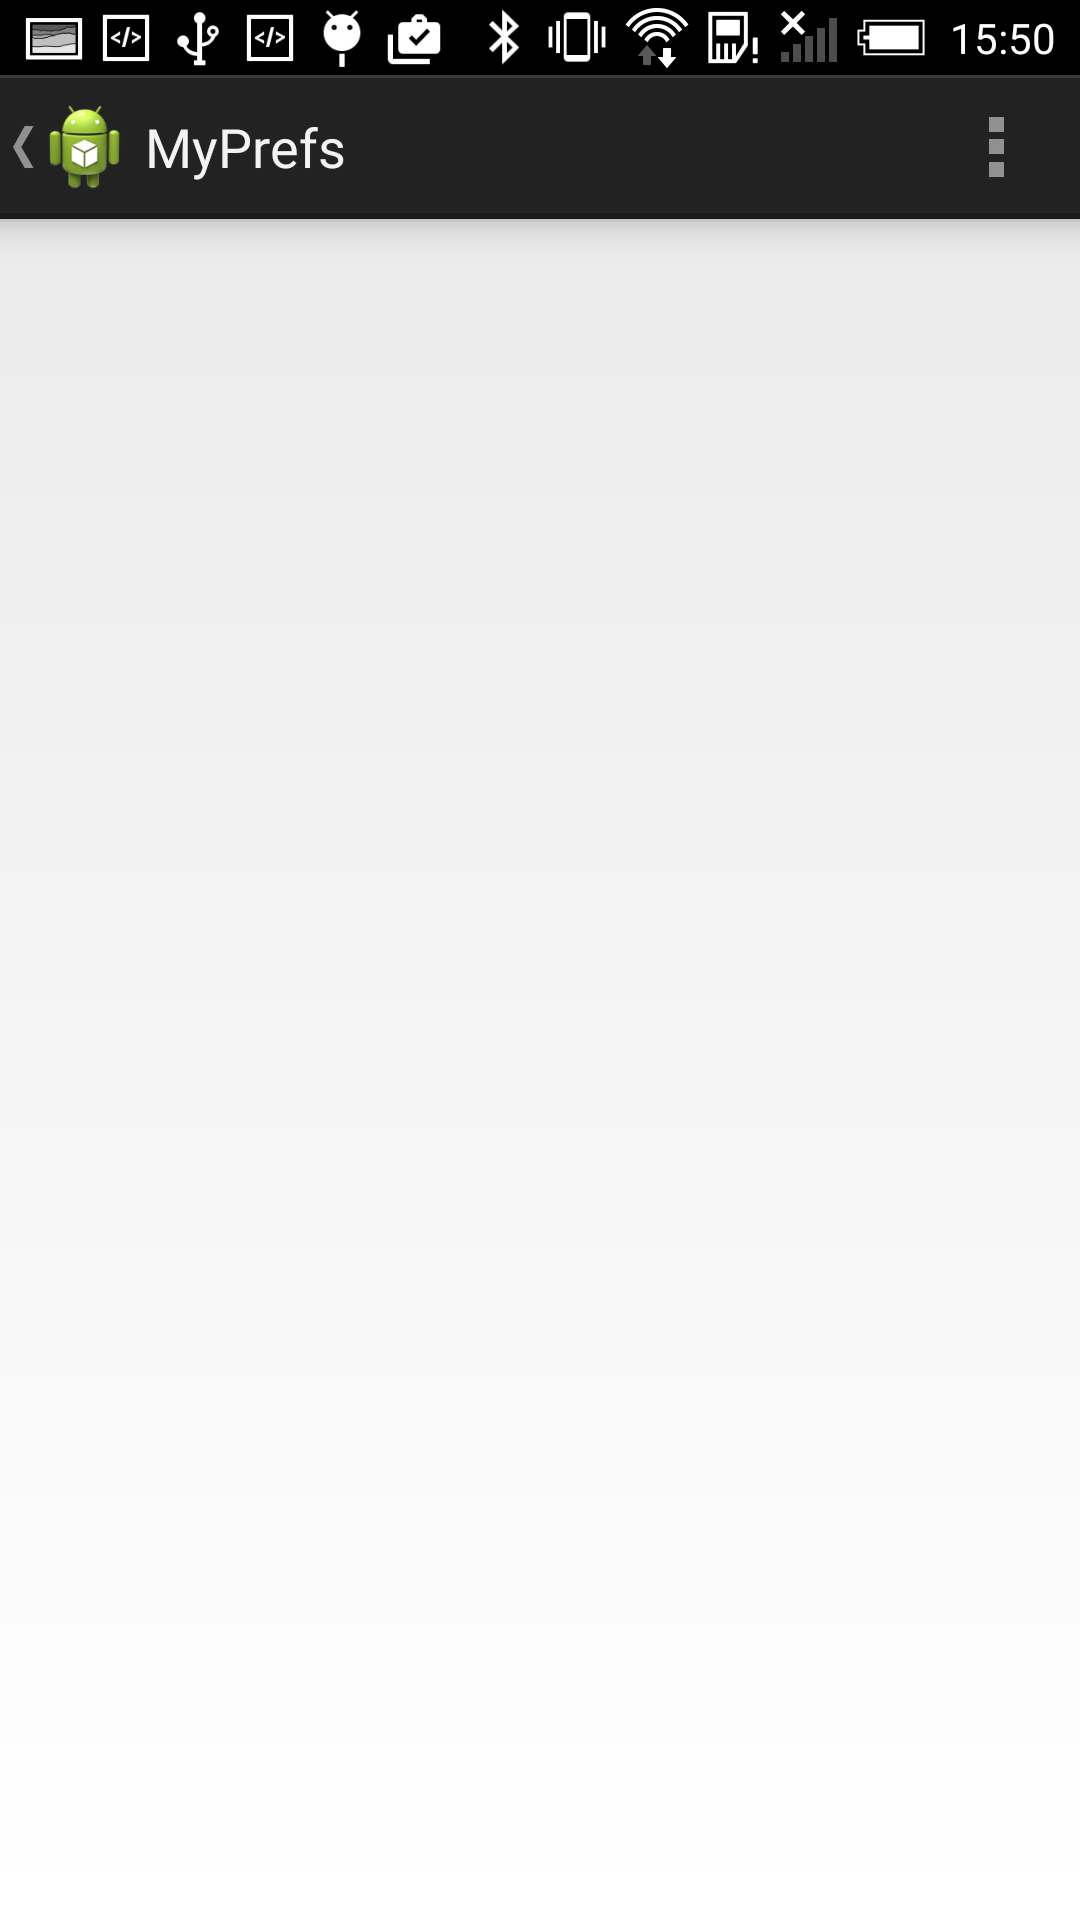
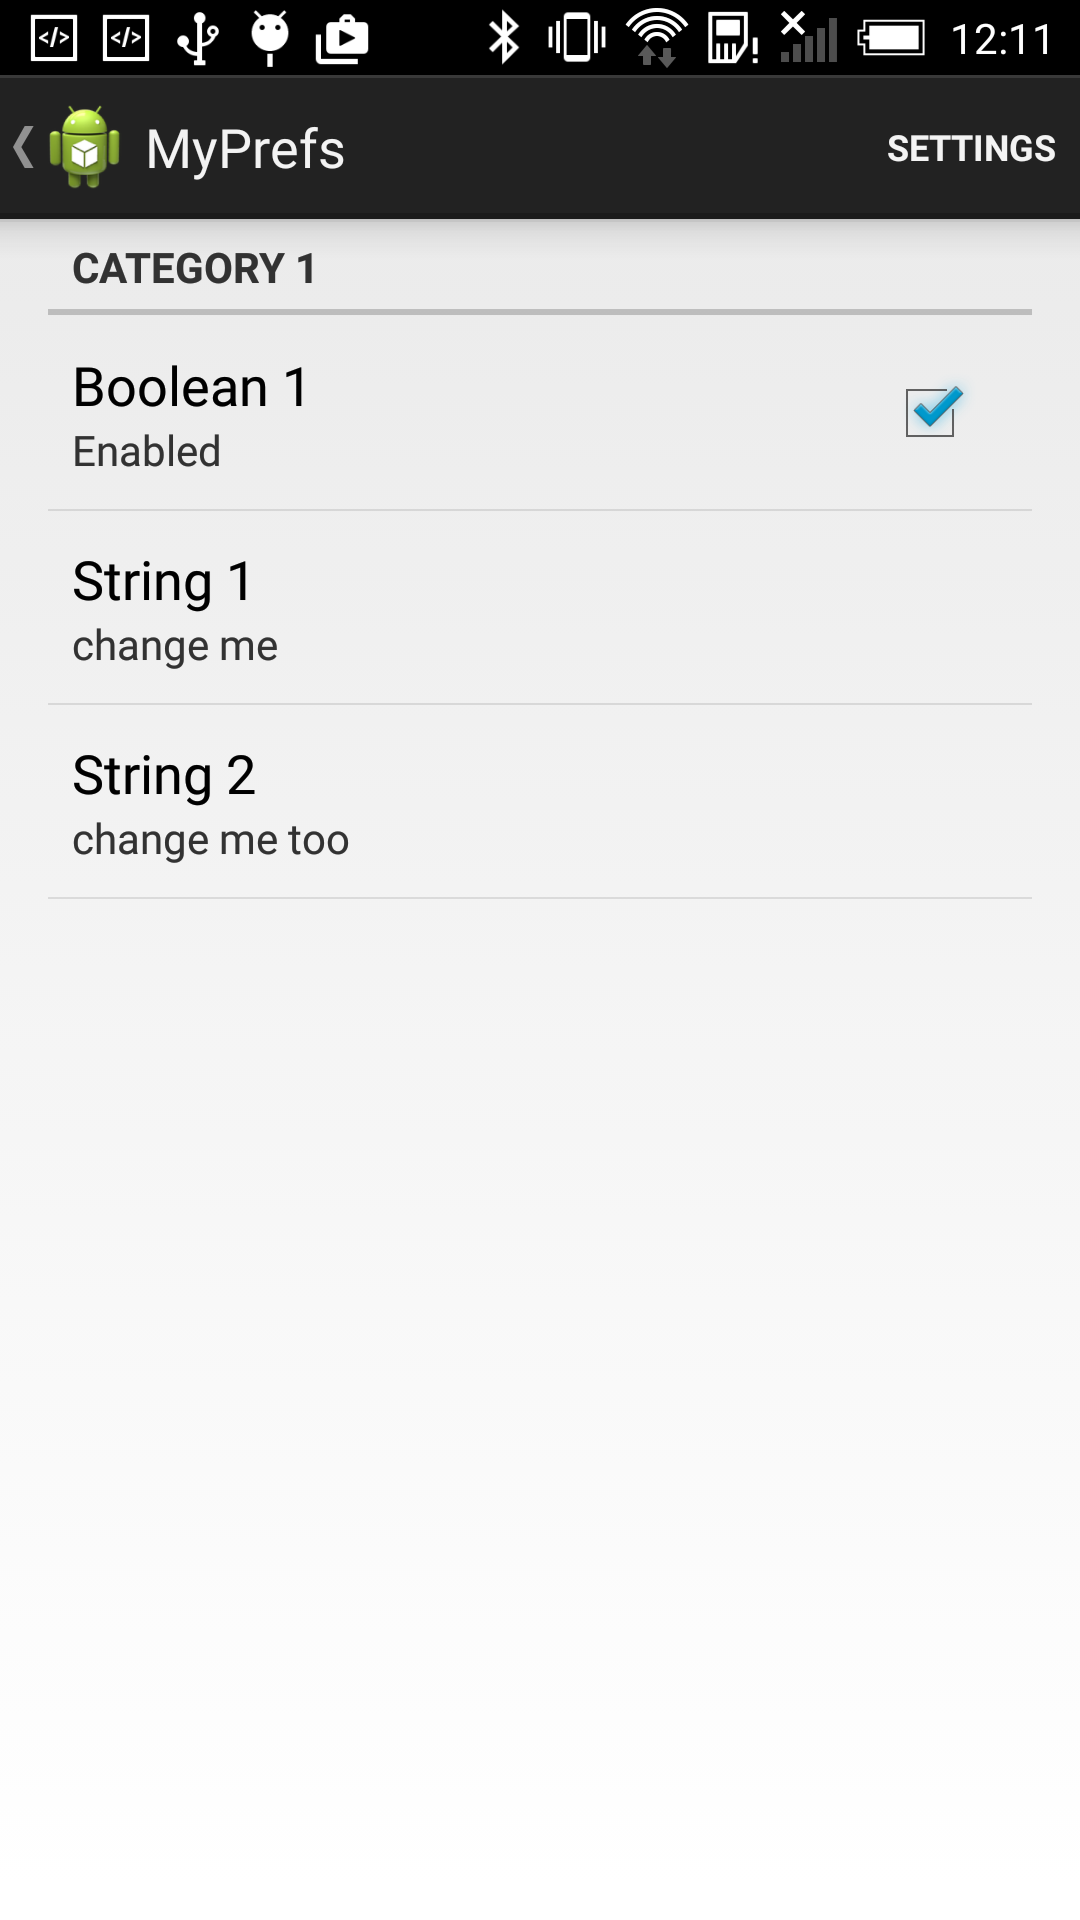
Load preference keys from strings.xml

diff --git a/MyPrefs/src/de/afarber/myprefs/PrefFragment.java b/MyPrefs/src/de/afarber/myprefs/PrefFragment.java
@@ -11,9 +11,9 @@ import android.util.Log;
 public class PrefFragment extends PreferenceFragment 
     implements OnSharedPreferenceChangeListener {
 	
-	public static final String BOOL_1 = "bool_1";
-	public static final String STR_1 = "str_1";
-	public static final String STR_2 = "str_2";
+	public static String BOOL_1;
+	public static String STR_1;
+	public static String STR_2;
 	
 	private CheckBoxPreference mBool1;
 	private EditTextPreference mStr1;
@@ -22,8 +22,13 @@ public class PrefFragment extends PreferenceFragment
     @Override
     public void onCreate(Bundle savedInstanceState) {
     	super.onCreate(savedInstanceState);
-		setHasOptionsMenu(false);
+		setHasOptionsMenu(false); 							// TODO does not work
    		addPreferencesFromResource(R.xml.preferences);
+   		
+   		BOOL_1 = getString(R.string.bool_1);
+   		STR_1  = getString(R.string.str_1);
+   		STR_2  = getString(R.string.str_2);
+
    		mBool1 = (CheckBoxPreference) findPreference(BOOL_1);
    		mStr1 = (EditTextPreference) findPreference(STR_1);
    		mStr2 = (EditTextPreference) findPreference(STR_2);
@@ -34,7 +39,7 @@ public class PrefFragment extends PreferenceFragment
 	    super.onResume();
 	    
 	    SharedPreferences prefs = getPreferenceManager().getSharedPreferences();
-	    // load saved values to set the summaries
+	    // set the summaries from saved values
 	    onSharedPreferenceChanged(prefs, BOOL_1);
 	    onSharedPreferenceChanged(prefs, STR_1);
 	    onSharedPreferenceChanged(prefs, STR_2);
